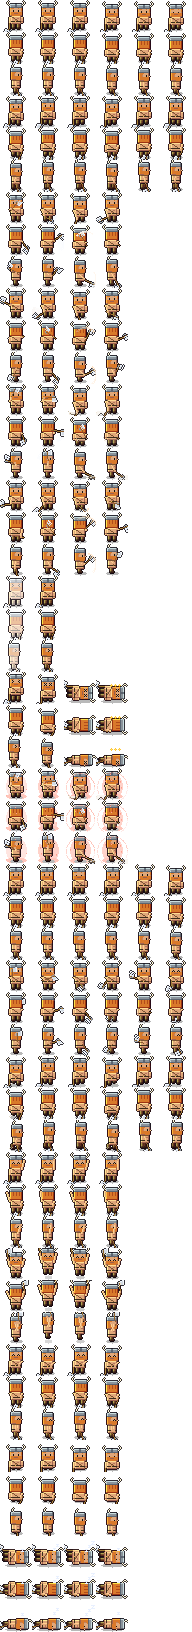
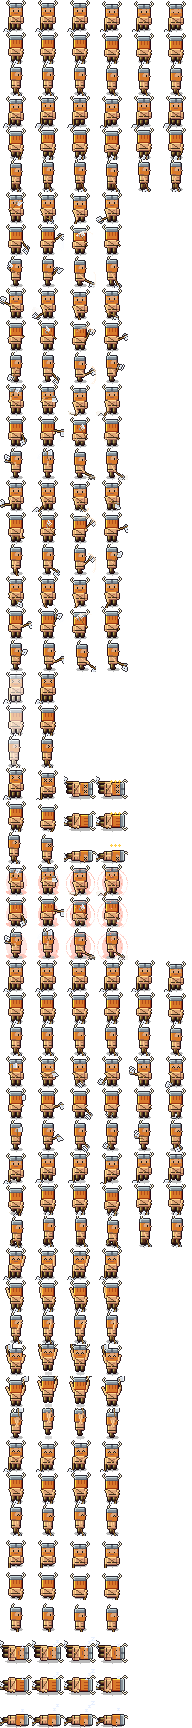
Add swing1-4 normal-attack variants (aliases + new lunge cut), keep attack3 as combo finisher
Claude-Session: https://claude.ai/code/session_01QnG6Xymw3ckdFJ5DhJE8Qy

diff --git a/tools/art/characters.ts b/tools/art/characters.ts
@@ -30,6 +30,7 @@ export const ANIMS: { name: string; frames: number; fps: number; loop: boolean }
   { name: "attack2", frames: 4, fps: 14, loop: false },
   { name: "attack3", frames: 4, fps: 12, loop: false },
   { name: "attack4", frames: 4, fps: 14, loop: false },
+  { name: "attack5", frames: 4, fps: 14, loop: false },
   { name: "hit", frames: 2, fps: 10, loop: false },
   { name: "ko", frames: 4, fps: 6, loop: false },
   { name: "skill", frames: 4, fps: 10, loop: false },
@@ -58,7 +59,7 @@ const FACE: Record<Dir, [number, number]> = { down: [0, 1], up: [0, -1], right: 
 const FACE_ANGLE: Record<Dir, number> = { down: 90, up: -90, right: 0 };
 const rad = (d: number) => (d * Math.PI) / 180;
 
-export type MoveId = "a1" | "a2" | "a3" | "a4";
+export type MoveId = "a1" | "a2" | "a3" | "a4" | "a5";
 type MoveKind = "slash" | "thrust" | "spin" | "bash" | "slam" | "cast" | "double" | "charged" | "bonk" | "shot";
 interface Move { swing: number[]; reach?: number[]; lift?: number[]; abs?: boolean; kind: MoveKind; fx?: number }
 interface Hero {
@@ -137,6 +138,10 @@ function handPos(p: Pose, hero: Hero): [number, number] {
 
 function moveOf(hero: Hero, p: Pose): Move {
   if (!p.move || p.move === "a1" || !hero.moves) return { swing: hero.swing, kind: hero.kind1 ?? "slash" };
+  // a5: a lower, flatter take on the basic attack (4th normal-attack variant)
+  if (p.move === "a5") return hero.kind1 === "shot"
+    ? { swing: hero.swing.map((v) => v - 15), reach: [0, 0, -1, -2], lift: [3, 2, 1, 1], kind: "shot" }
+    : { swing: [-70, -20, 40, 20], reach: [2, 5, 6, 3], lift: [2, 1, 0, 0], kind: hero.kind1 ?? "slash" };
   return hero.moves[p.move];
 }
 
@@ -689,7 +694,7 @@ export function renderFrame(hero: Hero, p: Pose, withShadow = true, flash = 0): 
   if (flash) c.tint(0xffffff, flash);
   c.rim();
   c.selout(OUTLINE);
-  if (p.attack < 0 || !p.move || p.move === "a1" || mv.kind === "double" || mv.kind === "charged" || mv.kind === "shot") hero.fx?.(d, hand, ang);
+  if (p.attack < 0 || !p.move || p.move === "a1" || mv.kind === "double" || mv.kind === "charged" || mv.kind === "shot" || p.move === "a5") hero.fx?.(d, hand, ang);
   if (p.attack >= 0) moveFx(d, hero, mv, hand, ang);
   if (withShadow) c.under((s) => s.ellipse(16 + d.lx, 29, 6, 1.5, 0x000000, 70));
   return c;
@@ -868,6 +873,7 @@ export function animFrames(hero: Hero, anim: string, dir: Dir): Canvas[] {
     case "walk": return [1, 0.5, -0.5, -1, -0.5, 0.5].map((stride, t) => renderFrame(hero, { ...B(t), stride, bob: Math.abs(stride) === 1 ? 0 : -1 }));
     case "attack": return [0, 1, 2, 3].map((attack, t) => renderFrame(hero, { ...B(t), attack, bob: attack === 2 ? 1 : 0 }));
     case "attack2": return [0, 1, 2, 3].map((attack, t) => renderFrame(hero, { ...B(t), attack, move: "a2", bob: attack === 2 ? 1 : 0 }));
+    case "attack5": return [0, 1, 2, 3].map((attack, t) => renderFrame(hero, { ...B(t), attack, move: "a5", bob: attack === 2 ? 1 : 0, lean: dir === "right" ? -[0, 1, 2, 1][attack] : 0 }));
     case "attack4": return [0, 1, 2, 3].map((attack, t) => renderFrame(hero, { ...B(t), attack, move: "a4", bob: attack === 2 ? 1 : 0 }));
     case "attack3": {
       if (hero.moves?.a3.kind === "spin") {

diff --git a/client/src/artAssets.ts b/client/src/artAssets.ts
@@ -8,7 +8,7 @@ import Phaser from "phaser";
 export const CHARACTERS = ["ninja", "wizard", "knight", "archer", "barbarian", "blacksmith", "merchant", "villager", "guard"] as const;
 export const NPC_NAMES = ["blacksmith", "merchant", "villager", "guard"] as const;
 export type CharacterName = (typeof CHARACTERS)[number];
-export const CHAR_ANIMS = ["idle", "walk", "attack", "attack2", "attack3", "attack4", "hit", "ko", "skill", "idle2", "idle3", "run", "wave", "cheer", "laugh", "sit", "sleep"] as const;
+export const CHAR_ANIMS = ["idle", "walk", "attack", "attack2", "attack3", "attack4", "attack5", "hit", "ko", "skill", "idle2", "idle3", "run", "wave", "cheer", "laugh", "sit", "sleep"] as const;
 /** Cosmetic animations: play idle2/idle3 now and then while standing still, run when moving fast, emotes from chat (e.g. /wave). */
 export const FLAVOUR_ANIMS = ["idle2", "idle3", "run", "wave", "cheer", "laugh", "sit", "sleep"] as const;
 export const CHAR_ORIGIN = { x: 0.5, y: 29 / 32 }; // feet
@@ -57,9 +57,5 @@ export function playCharAnim(sprite: Phaser.GameObjects.Sprite, char: CharacterN
   sprite.play(`${char}_${anim}_${d}`, true);
 }
 
-/** The four normal-attack variants. Pick one per Space press so attacks don't look repetitive. */
-export const ATTACK_VARIANTS = ["attack", "attack2", "attack3", "attack4"] as const;
-export function nextAttackAnim(prev?: string): (typeof ATTACK_VARIANTS)[number] {
-  const options = ATTACK_VARIANTS.filter((a) => a !== prev);
-  return options[Math.floor(Math.random() * options.length)];
-}
+/** The four normal-attack variants (aliases in characters.json). attack3 stays the combo finisher. */
+export const SWING_ANIMS = ["swing1", "swing2", "swing3", "swing4"] as const;

diff --git a/tools/art/generate.ts b/tools/art/generate.ts
@@ -12,6 +12,9 @@ ANIMS.forEach((a, ai) => DIRS.forEach((dir, di) => {
   const row = ai * DIRS.length + di;
   animations[`${a.name}_${dir}`] = { frames: [...Array(a.frames).keys()].map((i) => row * COLS + i), fps: a.fps, loop: a.loop };
 }));
+// Normal-attack variants for the game (server sends variant 0-3); attack3 stays the combo finisher.
+const SWINGS = ["attack", "attack2", "attack4", "attack5"];
+SWINGS.forEach((src, i) => DIRS.forEach((dir) => { animations[`swing${i + 1}_${dir}`] = animations[`${src}_${dir}`]; }));
 for (const h of [...HEROES, ...NPCS]) buildSheet(h).save(`${OUT}/characters/${h.name}.png`);
 writeFileSync(`${OUT}/characters/characters.json`, JSON.stringify({
   characters: HEROES.map((h) => h.name),
